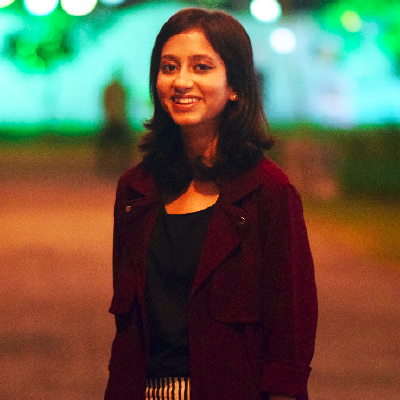
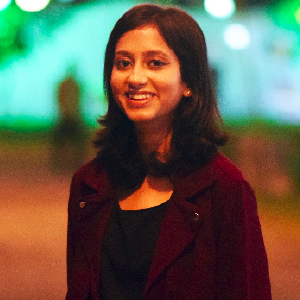
img fix

diff --git a/index.html b/index.html
@@ -528,7 +528,7 @@
 				<div class="col-md-3 col-sm-6 speaker-column">
 					<div class="speaker">
 						<div class="image-holder">
-							<img class="background-image" alt="Ritika Motwani" src="img/ritika.png">
+							<img class="background-image" alt="Ritika Motwani" src="img/ritika.jpg">
 							<div class="hover-state text-center preserve3d">
 								<div class="social-links vertical-align">
 									<a href="https://github.com/ritikamotwani">
@@ -1690,7 +1690,7 @@
 				<div class="col-md-3 col-sm-6 speaker-column">
 					<div class="speaker">
 						<div class="image-holder">
-							<img class="background-image" alt="Areeb Jamal" src="img/AreebJamal.png">
+							<img class="background-image" alt="Areeb Jamal" src="img/AreebJamal.jpg">
 							<div class="hover-state text-center preserve3d">
 								<div class="social-links vertical-align">
 									<a href="https://github.com/iamareebjamal">
